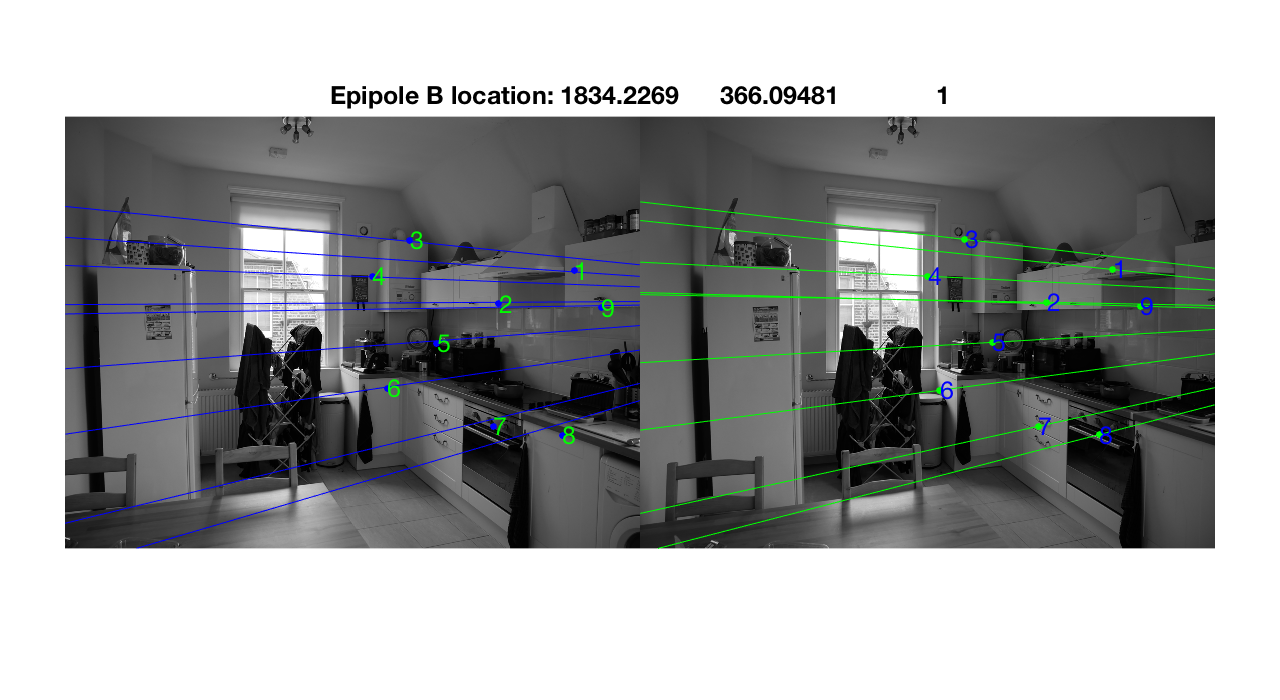
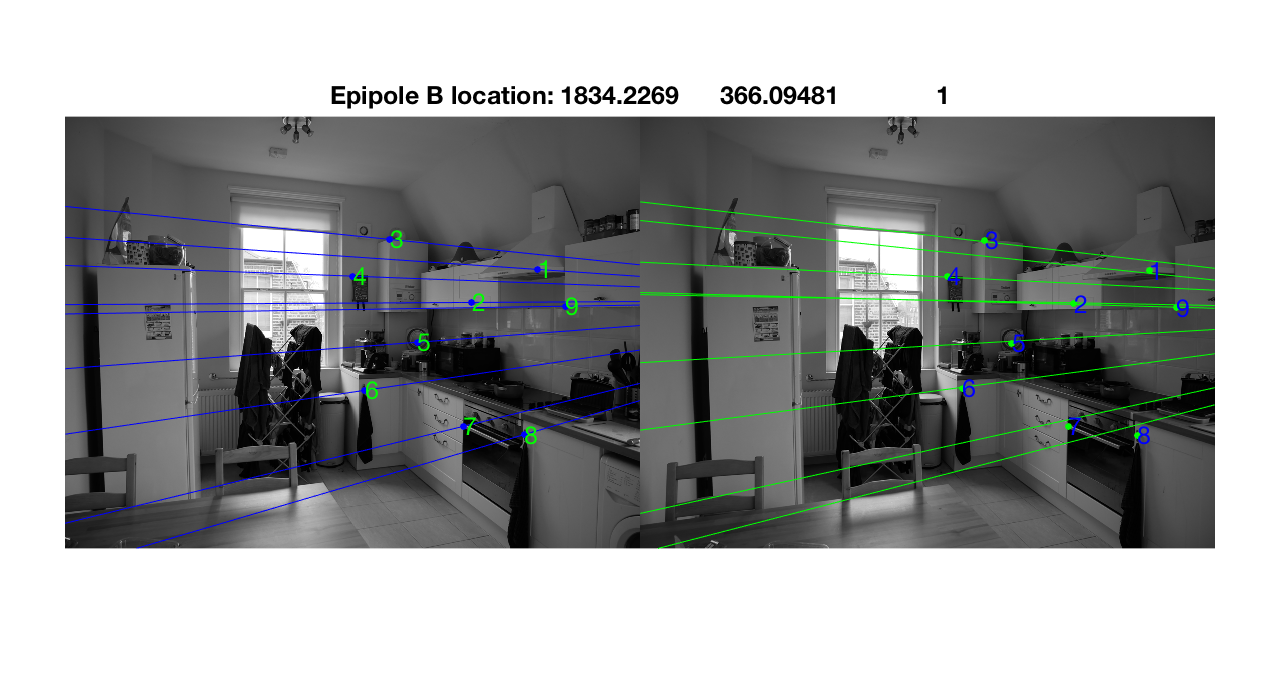
Modifications to the Q2.2.A/Q2.2.B files.

diff --git a/src/q2_2_ab.m b/src/q2_2_ab.m
@@ -119,11 +119,11 @@ hold on;
 plot(xpoints, ypointsA, 'b');
 plot(xpoints + imgWidth, ypointsB, 'g');
 % Points
-scatter(coordA(1, :), coordA(2, :), 50, 'o', 'filled', 'b');
-scatter(coordB(1, :)+ imgWidth, coordB(2, :), 50, 'o', 'filled', 'g');
+scatter(coordB(1, :), coordB(2, :), 50, 'o', 'filled', 'b');
+scatter(coordA(1, :)+ imgWidth, coordA(2, :), 50, 'o', 'filled', 'g');
 % Numbering
-text(coordA(1, :), coordA(2, :), num2cell(1:9), 'FontSize', 20, 'color', 'g');
-text(coordB(1, :)+ imgWidth, coordB(2, :), num2cell(1:9), 'FontSize', 20, 'color', 'b');
+text(coordB(1, :), coordB(2, :), num2cell(1:9), 'FontSize', 20, 'color', 'g');
+text(coordA(1, :)+ imgWidth, coordA(2, :), num2cell(1:9), 'FontSize', 20, 'color', 'b');
 hold off;
 % Formatting and saving
 set(findall(gcf,'type','text'),'fontSize',25);
